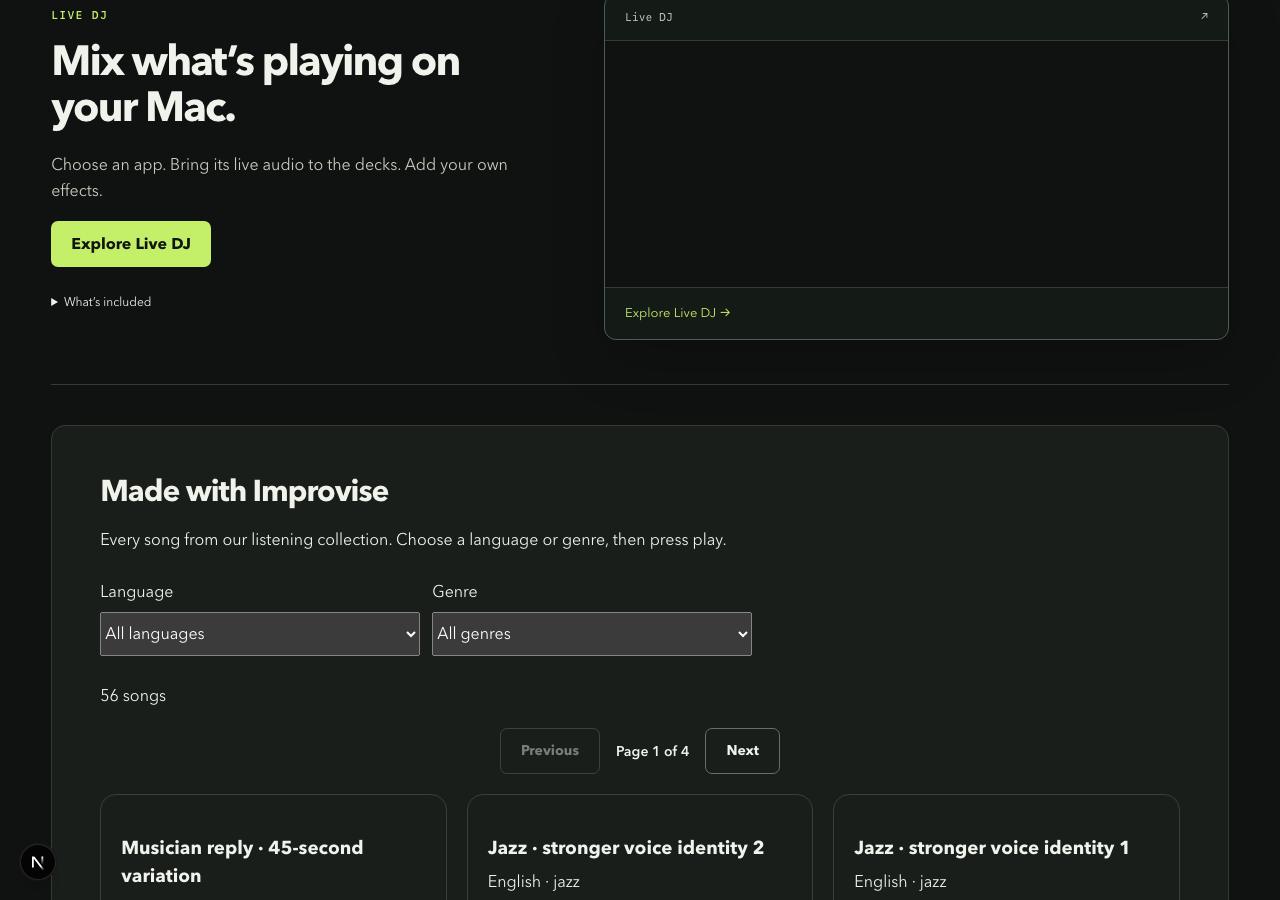
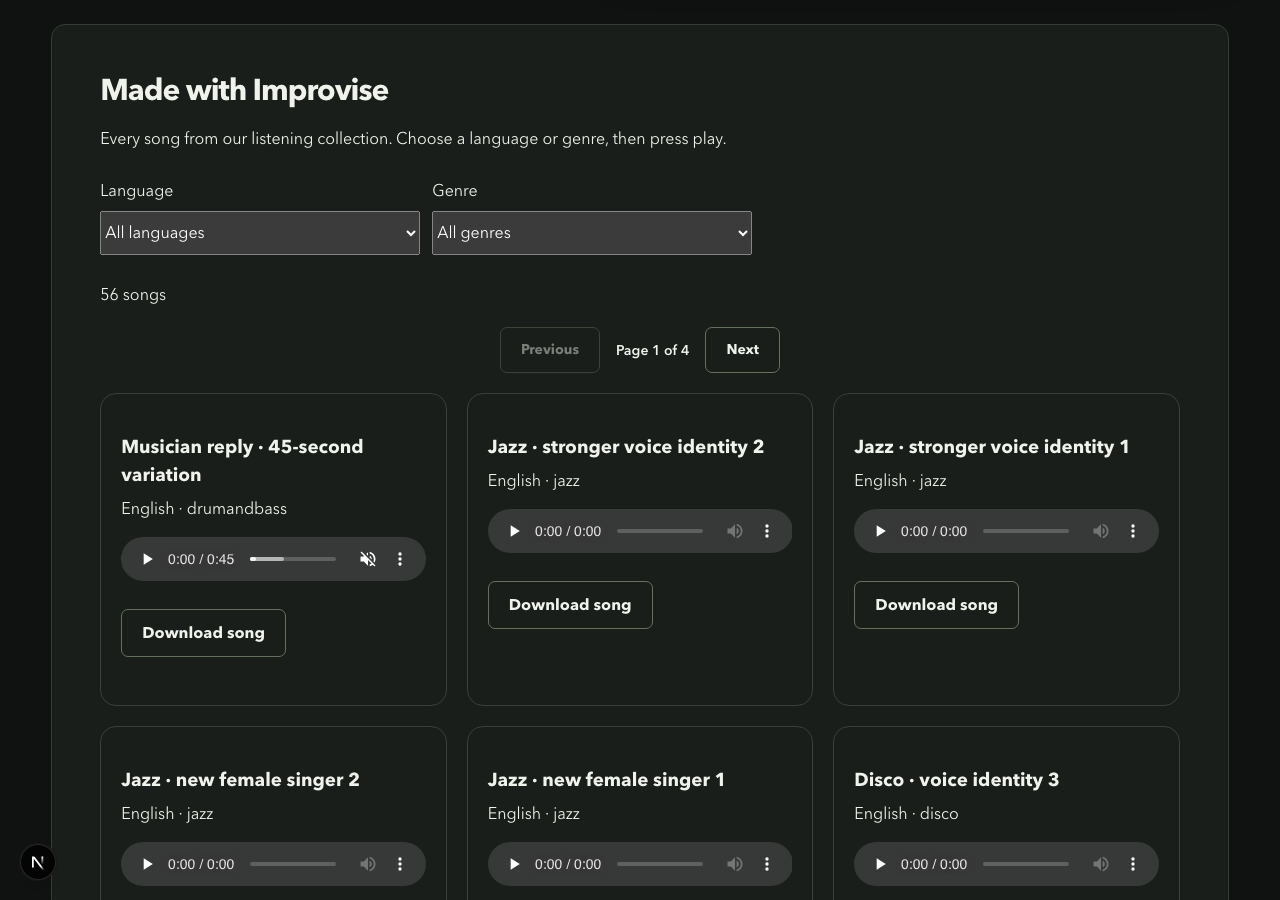
Record Improvise gallery deployment and playback evidence

diff --git a/docs/homepage-gallery-20261024.md b/docs/homepage-gallery-20261024.md
@@ -1,9 +1,11 @@
 # Homepage Improvise gallery — 2026-10-24
 
-**Implementation and local browser checks PASS; deployment pending.**
+**Implementation, local browser checks and deployment PASS.**
 
 The homepage used `SongGallery scope="public"`, which lists completed, consented community publications. That collection returns zero Improvise songs. The existing 56 Improvise listening samples are a separate manifest-backed collection, already shown on `/improvise` with `scope="showcase"`. The homepage now reuses that view under the accurate title “Made with Improvise,” including its existing filters, pagination, audio and downloads. Actual community songs remain on the Improvise product page. No song visibility or account data was changed.
 
 Checks: production build PASS; all six `dna-examples.test.ts` checks PASS; Chromium and WebKit homepage regression PASS at 1280/390/320 with existing-example rendering and pagination assertions, zero page errors and zero scoped Axe violations. A separate real-audio check loaded all 56 examples, played the first Improvise example with speakers muted, exercised genre filtering/clearing and verified desktop/mobile overflow. [Browser report](evidence/homepage-gallery-20261024/browser.json), [playback receipt](evidence/homepage-gallery-20261024/playback.json), [desktop](evidence/homepage-gallery-20261024/gallery-1280.png), [mobile](evidence/homepage-gallery-20261024/gallery-390.png).
 
 The anonymous production site still has its existing coming-soon gate: song API requests without an authorized session return HTTP 503. This is distinct from the empty community collection and is unchanged by this fix. The full homepage remains available through the existing owner preview. No paid generation, new sample generation, private publication or launch-gate expansion occurred. Browser runtime tools remained unavailable; the previously authorized Playwright workflow was used.
+
+Deployment **PASS**: GitHub source `cf7c5b77b5857a52f40f56df66eeb383dc49e941`, Vercel reports deployment completed. [Receipt](evidence/homepage-gallery-20261024/deployment.json). The signed-in production homepage was not rechecked; the rendered and audio checks above ran locally against the existing published sample audio. Portable-core CI was still pending at deployment confirmation.

diff --git a/TODO.md b/TODO.md
@@ -1,6 +1,6 @@
 ## Homepage Improvise collection — 2026-10-24
 
-**Implementation and local browser checks PASS; deployment pending.** Replaced the empty community query on the homepage with the existing 56-song Improvise listening collection, accurately titled “Made with Improvise.” Pagination, filters, real muted playback, Chromium/WebKit rendering, scoped accessibility and production build pass. Actual community songs remain on the Improvise page; privacy and launch gates are unchanged. [Evidence](docs/homepage-gallery-20261024.md).
+**Implementation, local browser checks and deployment PASS.** Replaced the empty community query on the homepage with the existing 56-song Improvise listening collection, accurately titled “Made with Improvise.” Pagination, filters, real muted playback, Chromium/WebKit rendering, scoped accessibility and production build pass. Actual community songs remain on the Improvise page; privacy and launch gates are unchanged. [Evidence](docs/homepage-gallery-20261024.md).
 
 ## Website product clarity — 2026-10-24
 

diff --git a/docs/progress.md b/docs/progress.md
@@ -1,6 +1,6 @@
 ## Homepage Improvise collection — 2026-10-24
 
-**Implementation and local browser checks PASS; deployment pending.** Replaced the empty community query on the homepage with the existing 56-song Improvise listening collection, accurately titled “Made with Improvise.” Pagination, filters, real muted playback, Chromium/WebKit rendering, scoped accessibility and production build pass. Actual community songs remain on the Improvise page; privacy and launch gates are unchanged. [Evidence](homepage-gallery-20261024.md).
+**Implementation, local browser checks and deployment PASS.** Replaced the empty community query on the homepage with the existing 56-song Improvise listening collection, accurately titled “Made with Improvise.” Pagination, filters, real muted playback, Chromium/WebKit rendering, scoped accessibility and production build pass. Actual community songs remain on the Improvise page; privacy and launch gates are unchanged. [Evidence](homepage-gallery-20261024.md).
 
 ## Website product clarity — 2026-10-24
 
